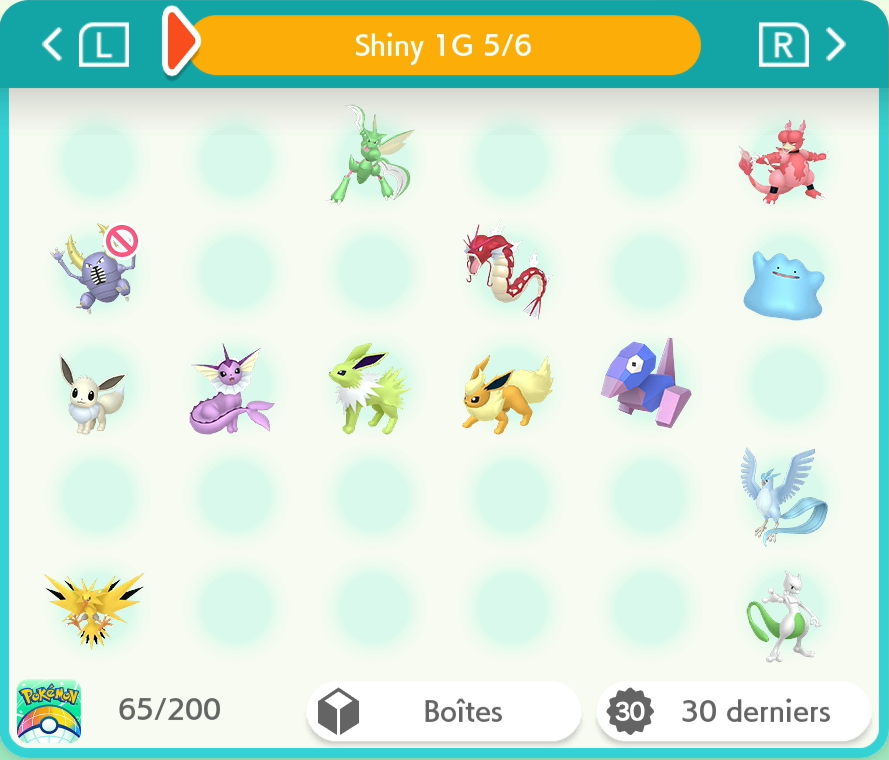
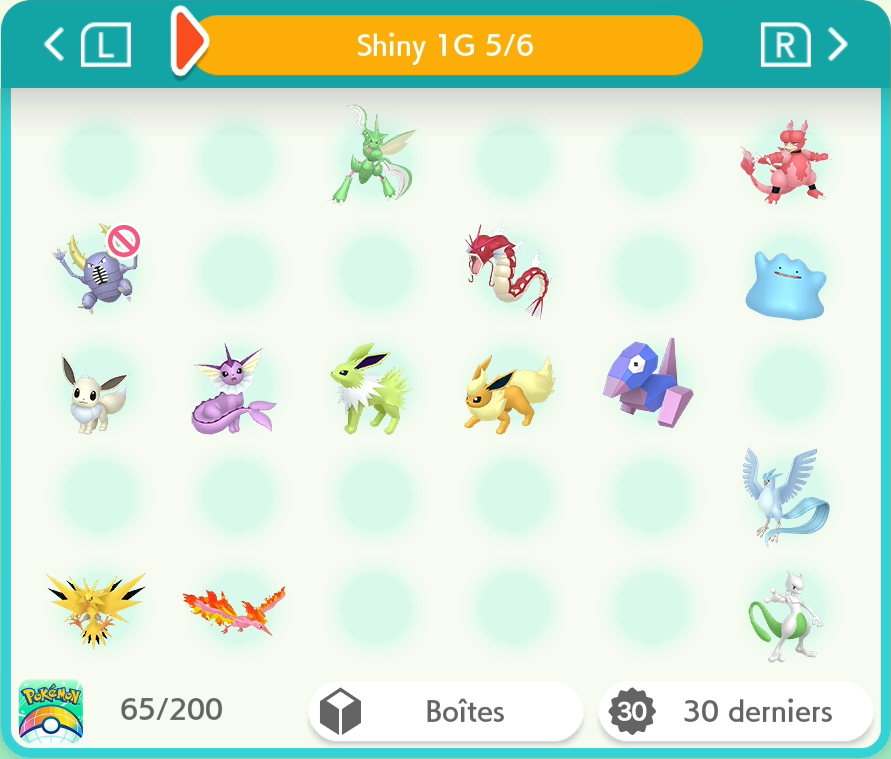
1G : Sulfura (Électhor était juste avant)

diff --git a/README.md b/README.md
@@ -2,12 +2,12 @@
 
 Pokémon-Elément-Sh -> <a href="https://www.pokemon-element-sh.fr/profil/karyno21" target="_blank">Karyno21</a>
 
-↓ Dernière Update le 15/09/2026 à 16h48 ↓
-### Dex National [268/999] +7
+↓ Dernière Update le 16/09/2026 à 13h38 ↓
+### Dex National [269/999] +8
 
 | Gen | Prog | Notes |
 |:--:|:--:|---|
-|1G|44/151|+2 Artikodin & Sulfura|
+|1G|45/151|+3 Artikodin, Électhor & Sulfura|
 |2G|33/100|+1 Celebi|
 |3G|22/135|+1 Spinda|
 |4G|20/107||
